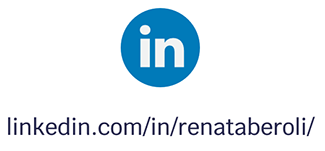
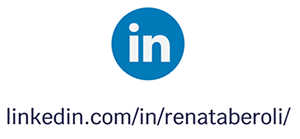
Changed images

diff --git a/README.md b/README.md
@@ -13,19 +13,17 @@
     </h2>
 </div>
 
-
-
 <div align="center" style="text-align:center">
     <a href=mailto:renata.olive19@gmail.com?>
         <img src="https://github.com/RenataBeroli/RenataBeroli/blob/main/Images/email.png?raw=true"
-        alt="Renata's Gmail" style="padding-right: 30px; height:70px">
+        alt="Renata's Gmail" style="padding-right: 30px">
     </a>
     <a href="https://www.linkedin.com/in/renataberoli/">
         <img src="https://github.com/RenataBeroli/RenataBeroli/blob/main/Images/linkedin.png?raw=true"
-            alt="Renata's LinkedIn" style="padding-right: 30px; height:70px">
+            alt="Renata's LinkedIn" style="padding-right: 30px">
     </a>
     <a href="https://twitter.com/BeroleeR">
         <img src="https://github.com/RenataBeroli/RenataBeroli/blob/main/Images/twitter.png?raw=true"
-            alt="Renata's twitter" style="height:70px">
+            alt="Renata's twitter">
     </a>
 </div>
